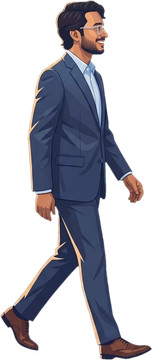
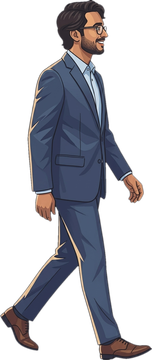
feat: optimize touch interactions for journey pad buttons

diff --git a/src/styles/index.css b/src/styles/index.css
@@ -3417,6 +3417,16 @@ main {
   color: var(--ink-soft);
   cursor: pointer;
   -webkit-tap-highlight-color: transparent;
+  /* A held D-pad button is exactly what a phone's long-press gesture
+     recognizer looks for — the callout/magnifier (iOS) or text-selection
+     (Android) kicks in around 500ms and fires pointercancel, releasing the
+     direction and stopping the character mid-walk. These three rules opt the
+     button out of every one of those native gestures so a hold is just a
+     hold, however long it lasts. */
+  touch-action: none;
+  -webkit-touch-callout: none;
+  -webkit-user-select: none;
+  user-select: none;
 }
 .journey-pad-btn:active {
   background: var(--accent);
@@ -3425,6 +3435,10 @@ main {
 .journey-pad-btn svg {
   width: 20px;
   height: 20px;
+  /* Keeps the button itself as the sole pointer-event target for the whole
+     press — the icon can never become the target mid-gesture and confuse
+     the down/up pairing. */
+  pointer-events: none;
 }
 .journey-pad-btn--up { grid-area: 1 / 2; }
 .journey-pad-btn--left { grid-area: 2 / 1; }
